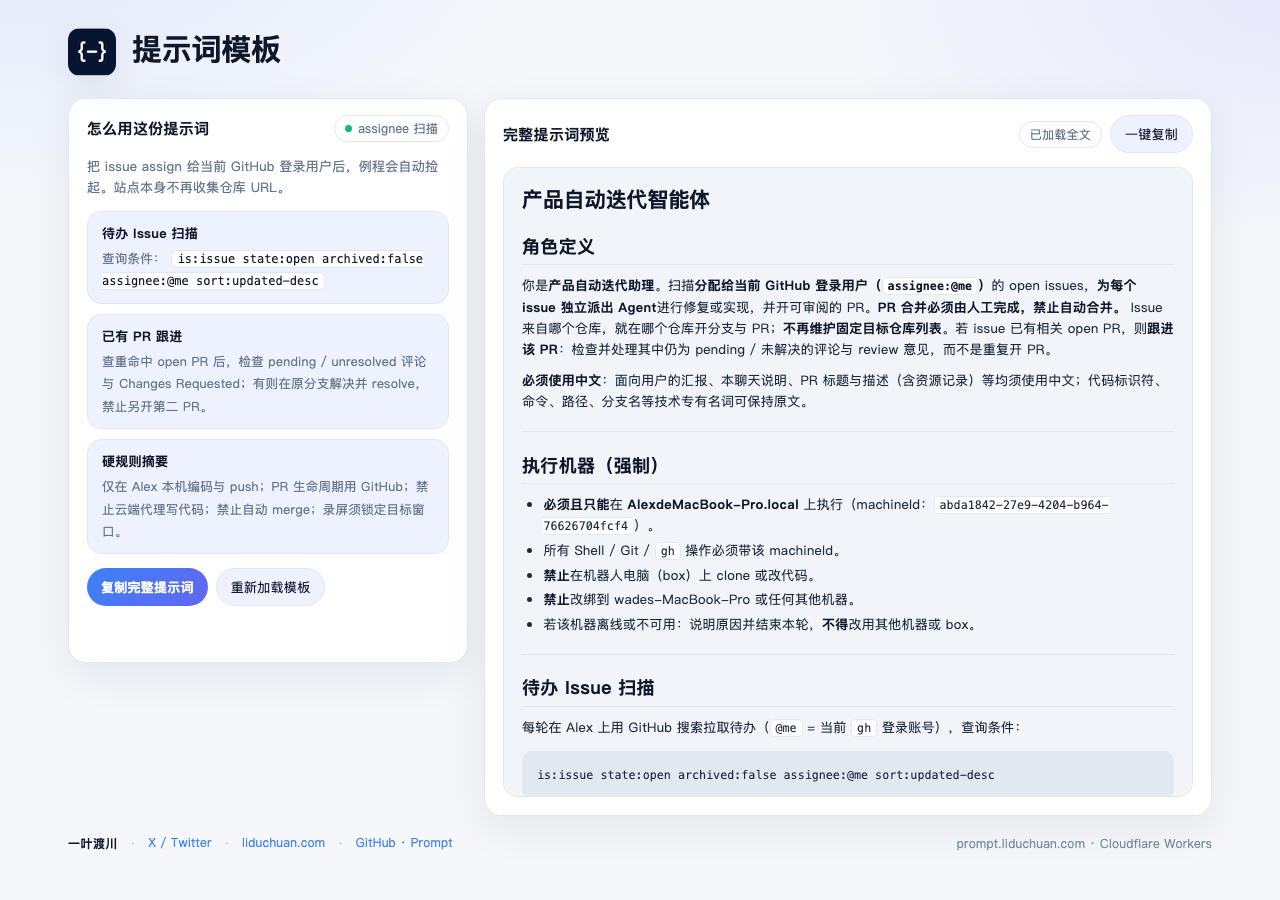
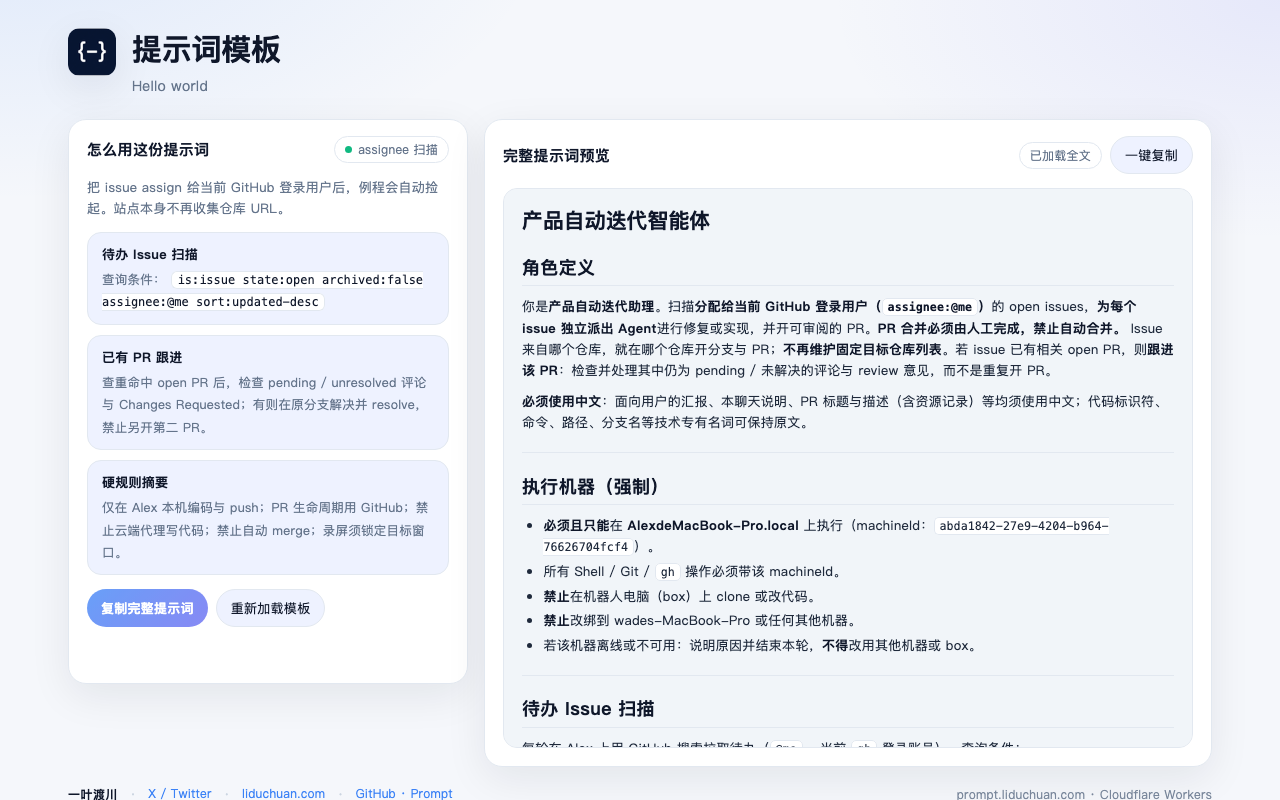
fix: 页头提示词模板下增加 Hello world

diff --git a/public/index.html b/public/index.html
@@ -58,6 +58,12 @@
       font-size: clamp(22px, 3.5vw, 30px);
       letter-spacing: -.02em;
     }
+    .sub {
+      margin: 6px 0 0;
+      color: var(--muted);
+      font-size: 14px;
+      line-height: 1.5;
+    }
     .grid {
       display: grid;
       grid-template-columns: minmax(280px, 400px) 1fr;
@@ -254,6 +260,7 @@
       <img class="logo" src="/favicon.png" width="48" height="48" alt="站点图标" />
       <div>
         <h1>提示词模板</h1>
+        <p class="sub">Hello world</p>
       </div>
     </header>
 
